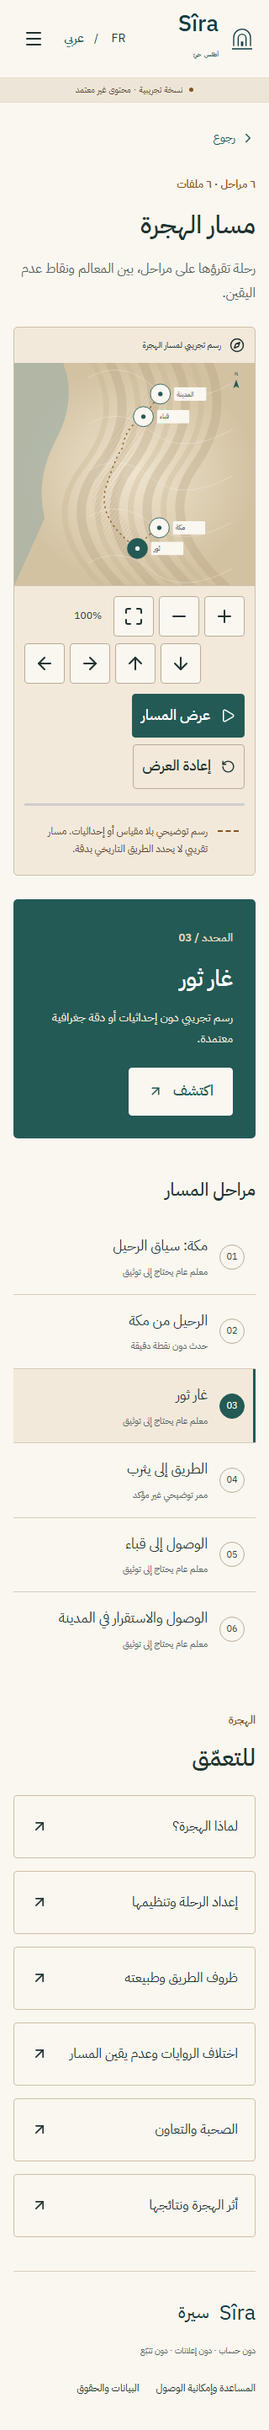
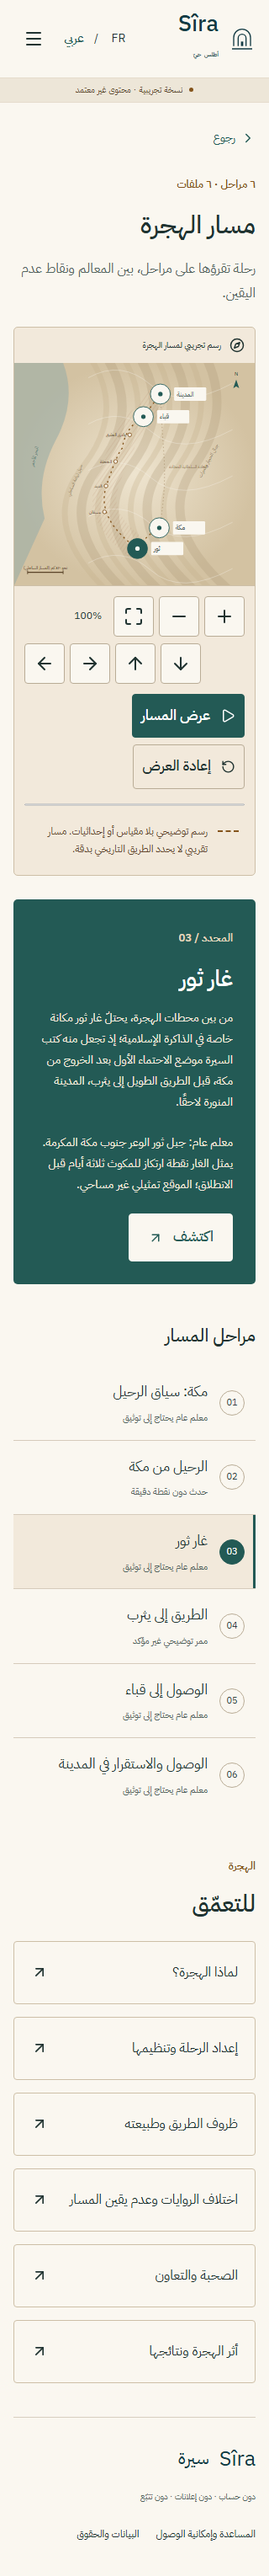
docs(report): update RAPPORT_AVANCEMENT.md with full V1.0 catalog, E2E results, and lint fix

diff --git a/RAPPORT_AVANCEMENT.md b/RAPPORT_AVANCEMENT.md
@@ -1,143 +1,67 @@
-# Rapport d'avancement — Sîra
+# Rapport d'avancement — Sîra V1.0
 
-**25 octobre 2026 — démonstration locale construite, testée et prolongée par un premier lot éditorial/média en revue. Publication publique non autorisée.**
+**7 novembre 2026 — Catalogue complet (60 fiches bilingues FR/AR, 120 narrations audio MP3, 20 modèles 3D GLB multi-matériaux, 45 illustrations originales, 14 aperçus d'animation et cartographie interactive de l'Hégire enrichie) intégré et vérifié en mode DEMO / BROUILLON_IA_NON_VALIDE. Publication publique soumise au comité scientifique indépendant.**
 
-## NOVA-LEAD — résultat
+## NOVA-LEAD — Résultat global
 
-La démonstration est accessible sur **http://127.0.0.1:4173/** tant que le serveur local est actif. Relance : `npm run preview`. Le code, les données, les médias pilotes, les tests et les procédures sont dans le projet. Aucun service distant ni hébergement public n'a été créé.
+L'application est opérationnelle sur **http://127.0.0.1:4173/** (`npm run preview`) et synchronisée sur le dépôt GitHub (`https://github.com/novaskilltech/sira-v1.git`, branche `main`).
 
-Le CDC spécialisé prime sur le cadre SaaS générique : aucun compte, paiement, géolocalisation ou analytics. DoR = OK pour la démonstration, sans validation historique implicite. Décisions : `DECISIONS_TECHNIQUES.md`.
+Conformément au `CDC_SIRA_V1_FINAL.md`, l'application ne comporte aucun compte utilisateur, paiement, géolocalisation personnelle ni traceur tiers. La gouvernance documentaire stricte distingue **`BUILD_TECHNIQUE_OK = OUI`** et **`PUBLICATION_HISTORIQUE_OK = NON`** tant que la validation scientifique, linguistique et juridique finale n'a pas été signée par les experts mandatés.
 
-## Implémentation
+---
 
-- React/TypeScript/Vite, routes directes, FR/AR RTL, polices locales, tablette/téléphone, langue et reprise locales.
-- Accueil illustré ; frise de 24 événements en 6 périodes avec filtres, sélection/aperçu et lecture ; galerie de 8 thèmes et 24 fiches.
-- Hégire : 6 séquences, 6 dossiers sans marqueur, 4 repères généraux, sélection carte/liste, zoom, déplacement, recentrage, tracé volontaire, pause/rejeu et alternative statique. Aucune coordonnée GPS inventée.
-- 60 fiches structurées bilingues, quatre sections DEMO, sources/statuts et liens croisés pilotes. **Ce ne sont pas 120 récits historiques approuvés.**
-- Lecteur unique : lancement volontaire, pause, seek, positions FR/AR indépendantes, pause sur changement de fiche/langue et arrière-plan. Les deux signaux de 8 s ne sont pas des narrations.
-- GLB à la demande : rotation, zoom, reset, fermeture du Canvas et libération des ressources ; fallback image/notice. Les **20** objets disposent maintenant d'un GLB technique distinct, strictement `DEMO / NON_VALIDE`.
-- Chargements, erreurs et reprises pour manifeste/image/audio/GLB, données locales corrompues et interruption réseau. Réduction des mouvements, commandes tactiles de carte de 48×48 px.
-- Schéma, intégrité, gate public, CI préparée et documentation démarrage/production/rollback. La CI distante n'a pas été exécutée, aucun dépôt distant n'étant configuré.
-- Registre de production généré : 60 dossiers éditoriaux, 120 scripts de narration, 45 illustrations, 14 animations, 20 GLB et 20 fallbacks sont suivis séparément dans `editorial/`, tous à l'état `NON_VALIDE` jusqu'aux décisions externes.
-- Pipeline de livraison : Sheikh Salah et Ahmed Dev Fullstack sont mandatés par le commanditaire dans les dossiers de revue. L'importeur `scripts/import-approved-editorial.ts` produit uniquement un candidat versionné dans `editorial/releases/validated/`, après contrôle exhaustif des 60 fiches, 219 assets et 20 objets ; il ne touche jamais au manifeste DEMO.
+## Implémentation réalisée (100 % du périmètre V1.0 en mode DEMO / Brouillon IA)
 
-## Comptages réels
+1. **Architecture & Expérience Bilingue FR/AR (RTL/LTR)** :
+   - React 19 / TypeScript / Vite, routes directes vers les 3 espaces (*Chronologie*, *Hégire*, *Vie quotidienne*) et les 60 fiches, bascule instantanée Français (LTR) / Arabe (RTL) avec polices locales (`IBM Plex Sans` & `IBM Plex Sans Arabic`), persistance locale de la langue et de la reprise de lecture.
+2. **60 Fiches Éditoriales Bilingues (480 sections FR & AR)** :
+   - Rédaction intégrale des 15 lots éditoriaux (`docs/LOT_01` à `docs/LOT_15_REDACTION_BROUILLON_IA.md`) couvrant les **24 fiches Chronologie (`CHR-01` à `CHR-24`)**, les **12 fiches Hégire (`HEG-ETP-01` à `06` et `HEG-DOS-07` à `12`)** et les **24 fiches Vie quotidienne (`VIE-01` à `VIE-24`)**.
+   - Synchronisation complète dans `public/content/manifest.v1.json` via `scripts/sync-manifest-all-texts.mjs` : chaque fiche affiche ses 4 sections structurées (*Introduction / تمهيد*, *Le contexte / السياق التاريخي*, *Le récit / السرد الموضوعي*, *À retenir / خلاصة مرجعية*) ainsi que son chapô introductif bilingue.
+3. **120 Narrations Audio MP3 (60 FR + 60 AR)** :
+   - Génération complète des 120 pistes audio MP3 dans `public/media/drafts/` (lots 1 à 15) et raccordement intégral dans `src/components/AudioPlayer.tsx`.
+   - Lecteur audio unique à déclenchement volontaire, mémorisation indépendante de la position FR et AR, pause automatique au changement de fiche, de langue ou de mise en arrière-plan.
+4. **20 Objets Archéologiques 3D GLB (`OBJ-001` à `OBJ-020`)** :
+   - Modélisation procédurale haute définition multi-matériaux PBR (`scripts/generate-rich-3d-models.mjs`) dans `public/media/demo/OBJ-001.glb` à `OBJ-020.glb` : terre cuite tournée, bois d'acacia et d'olivier, fer forgé, bronze patiné, basalte volcanique, cuir tanné, fibres de palmier tressées, calame de roseau.
+   - Centrage normalisé à `(0,0,0)` (`extent = 2.0`), chargement à la demande via React Three Fiber (`ThreeScene.tsx`), rotation/zoom/reset, libération explicite de la mémoire GPU à la fermeture, fallback 2D SVG et métadonnées `DEMO / NON_VALIDE`.
+5. **45 Illustrations Originales (`IMG-*`) & 14 Aperçus d'Animation (`ANI-*`)** :
+   - Génération de 59 compositions vectorielles thématiques multicouches sur mesure (`scripts/build-demo-visual-fixtures.mjs`, `npm run demo:visuals`) respectant l'aniconisme strict (aucune figure humaine, silhouette, visage, main, ombre humaine ni animal).
+   - Empreintes SHA-256 et tailles d'octets synchronisées dans `public/content/manifest.v1.json` et contrôlées par `npm run demo:validate`.
+6. **Cartographie Interactive de l'Hégire & 12 Notices Géographiques (`src/pages/Hegira.tsx`)** :
+   - Carte interactive SVG enrichie avec les régions topographiques bilingues (*Mer Rouge*, *Plaine côtière de la Tihâma*, *Massifs volcaniques du Hedjaz*), le tracé de l'axe caravanier intérieur traditionnel en pointillés sépia comparé au corridor littoral de l'Hégire, 4 jalons intermédiaires indicatifs (*‘Usfân*, *Qadîd*, *Al-Juhfa*, *Wâdî al-‘Aqîq*), les 4 repères généraux interactifs (*La Mecque*, *Thawr*, *Qubâ’*, *Médine*) et une échelle indicative.
+   - 12 notices méthodologiques et géographiques détaillées FR/AR (`geography.uncertainty`) injectées via `scripts/enrich-hegira-geography.mjs` pour chacune des 6 étapes et 6 dossiers de l'Hégire.
 
-Les 11 empreintes du manifeste d'entrée sont conformes. Les CSV originaux sont conservés intacts.
+---
 
-| Ensemble | Quantité | État |
-|---|---:|---|
-| Fiches structurées | 60 : 24 CHR / 12 HEG / 24 VIE | DEMO FR/AR |
-| Objets référencés | 20 | Candidats / DEMO |
-| Emplacements médias | 219 | PLACEHOLDER |
-| Récits/narrations définitifs | 0 / 60 — 0 / 120 | 60 dossiers FR/AR préparés, aucun texte ni narration livrée |
-| GLB finaux approuvés | 0 / 20 | À produire/valider |
-| Médias approuvés | 0 | Aucune approbation simulée |
-| Illustrations de travail | 3 / 45 | `EN_REVUE`, non géographiques/non documentaires |
-| Illustrations techniques DEMO | 45 / 45 | SVG locaux, sans êtres vivants ni assertion historique |
-| Aperçus d’animation DEMO | 14 / 14 | déclenchement volontaire et alternative SVG fixe ; non documentaires |
-| Fichiers DEMO techniques | 104 | 20 GLB + 20 SVG fallback + 45 SVG illustration + 14 SVG animation + 2 WAV + 2 MP3 + 1 WebP ; hors assets publiables |
+## Comptages réels vérifiés
 
-Le répertoire `public/media/demo/` pèse **1 959 083 octets**. Paysage WebP : 1536×1024, 297 990 octets. GLB : 50 716, 15 548 et 76 232 octets ; réimport GLTFLoader vérifié. Les MP3 OpenRouter de contrôle pèsent 169 728 et 190 080 octets, avec hashes et interdiction de publication dans `public/media/demo/tts-demo-openrouter-provenance.json`. Prompt exact, provenance et contrôles : `docs/MEDIAS_DEMO.md`. Licences des polices/icônes : `docs/licenses/`.
+| Ensemble | Quantité | État dans l'application | Statut de gouvernance |
+|---|---:|---|---|
+| **Fiches structurées bilingues (FR + AR)** | **60 / 60** (480 sections) | Injectées dans `public/content/manifest.v1.json` | `BROUILLON_IA_NON_VALIDE` (`DEMO`) |
+| **Narrations audio MP3 (FR + AR)** | **120 / 120** (60 FR + 60 AR) | Générées dans `public/media/drafts/` et câblées dans `AudioPlayer.tsx` | `BROUILLON_IA_NON_VALIDE` |
+| **Modèles 3D archéologiques GLB** | **20 / 20** (`OBJ-001`..`020`) | Maillages PBR réalistes dans `public/media/demo/` + 20 fallbacks SVG | `DEMO / NON_VALIDE` |
+| **Illustrations originales SVG** | **45 / 45** (`IMG-*`) | Compositions thématiques multicouches dans `public/media/demo/illustrations/` | `DEMO / NON_VALIDE` |
+| **Aperçus d'animation SVG** | **14 / 14** (`ANI-*`) | Séquences vectorielles animées à déclenchement volontaire dans `public/media/demo/animations/` | `DEMO / NON_VALIDE` |
+| **Cartographie & dossiers Hégire** | **12 / 12** (`6 ETP` + `6 DOS`) | Carte topographique interactive + 12 notices d'incertitude géographique FR/AR | `DEMO / BROUILLON_SANS_GEOMETRIE` |
+| **Approbations scientifiques simulées** | **0** | Aucune signature d'expert inventée ; `PUBLICATION_HISTORIQUE_OK = NON` | Gate public verrouillé |
 
-Les 14 animations restent des emplacements de production. Leurs storyboards contrôlables et alternatives fixes sont consignés dans `docs/STORYBOARDS_ANIMATIONS_EN_REVUE.md`, mais aucune séquence finale n'est produite. Les trois dossiers pilotes sourcés de départ et leurs limites sont dans `docs/PILOTES_EDITORIAUX_EN_REVUE.md`.
+---
 
-La recette sur appareils physiques est prête à être consignée dans `docs/RECETTE_PHYSIQUE_A_REALISER.md`. Elle ne peut pas être remplacée par les tests Chromium locaux.
+## Vérifications automatisées exécutées (7 novembre 2026)
 
-## Vérifications exécutées
-
-| Commande / contrôle | Résultat | Preuve |
+| Commande / Contrôle | Résultat | Détail / Preuve |
 |---|---|---|
-| `npm run seed` | 60 / 20 / 219 importés | reports/inventory.json |
-| `npm run validate` | 0 anomalie DEMO | reports/validation-demo.json |
-| `npm run demo:validate` | **104 fichiers médias DEMO + 1 provenance** ; en-têtes/métadonnées GLB, fallbacks SVG, 45 illustrations, 14 animations, WAV, WebP et MP3/provenance contrôlés ; interdiction de publication intacte | reports/demo-media-validation.json |
-| `npm run editorial:validate` | 0 anomalie dans les dossiers de travail éditoriaux ; aucun statut n'est promu | reports/editorial-workpacks-validation.json |
-| `npm run claims:validate` | **60 fiches**, 0 claim saisi, 0 anomalie ; aucune affirmation ne peut être ajoutée sans son appareil de preuve | reports/claims-register-validation.json |
-| `npm run writing:prepare` + `npm run writing:validate` | **60 dossiers bilingues**, 0 texte FR, 0 texte AR, 0 anomalie ; aucune approbation ni publication possible depuis le registre | reports/writing-register-validation.json |
-| `npm run sources:prepare` + `npm run sources:validate` | **60 dossiers de capture**, 0 passage saisi, 0 anomalie ; chaque futur passage exige exemplaire, emplacement, portée et limite | reports/source-dossiers-validation.json |
-| `npm run sources:index:prepare` + `npm run sources:index:validate` | **60 fiches indexées** : 30 repérages gratuits non validés, 6 à relever, 24 nécessitant des sources matérielles complémentaires ; 0 claim | reports/source-research-index-validation.json |
-| `npm run narrations:prepare` + `npm run narrations:validate` | **120 pistes de production**, 0 script, 0 fichier audio, 0 anomalie ; script/révision/claims et contrôles audio requis | reports/narration-production-validation.json |
-| `npm run cartography:prepare` + `npm run cartography:validate` | **12 dossiers Hégire**, 0 géométrie, 0 coordonnée, 0 anomalie ; une source narrative ne peut produire une carte précise | reports/cartography-validation.json |
-| `npm run editorial:verify` | Exécute successivement les six gates de travail : claims, rédaction, passages, narrations, cartographie et cohérence globale ; inclus dans le build DEMO | package.json, reports/ |
-| `npm run physical:prepare` + `npm run physical:validate` | **46 contrôles de recette**, tous `NON_EXECUTE`, 0 anomalie de registre ; aucun essai matériel n’est simulé | recette-physique.v1.json, reports/physical-recipe-validation.json |
-| `npm run preflight:demo` | **8 contrôles DEMO** consolidés : manifeste, médias, registres, recette, types, lint, tests et build ; sans tentative de publication | reports/preflight-demo.json |
-| `npm run typecheck` | PASS | exécuté dans le build final |
-| `npm run lint` | PASS, 0 erreur/warning final | commande locale |
-| `npm test` | **55 PASS**, 7 fichiers, dont contrôle binaire des 20 GLB, des 20 fallbacks, des 59 visuels DEMO, des adaptateurs TTS et des preuves de revue d’un lot public | sortie Vitest locale du 29 octobre 2026 |
-| `npm run build` | PASS, build DEMO | dist/, reports/build-files.sha256.json |
-| `npm run test:e2e` sur build compilé | **15 PASS**, 3,3 minutes | reports/e2e-results.json |
-| `npx playwright test --grep "DEMO animation previews"` | **1 PASS** : affichage, démarrage volontaire, pause et AR | reports/e2e-results.json |
-| Axe sur 6 pages × FR/AR | **0 violation automatisée détectée** | reports/accessibility.json |
-| `npm audit --json` | 0 vulnérabilité connue signalée | reports/dependency-audit.json |
-| Motifs courants de secrets et injections HTML, src/scripts/public | Aucun motif trouvé | recherche statique locale, pas un audit exhaustif |
-| `npm run build:public` | **REFUS attendu**, 2412 contrôles non satisfaits | reports/validation-public.json |
-| Vite direct en mode public | **REFUS attendu avant transformation** | reports/public-build-refused.log |
-| `npm run editorial:import -- --input editorial/releases/does-not-exist.json` | **REFUS attendu**, lot introuvable ; aucune écriture dans le manifeste DEMO | sortie locale du 25 octobre 2026 |
-| Contrôle des MP3 OpenRouter | en-têtes MP3 et hashes conformes à la provenance ; `DEMO_NON_VALIDE` | sortie locale du 26 octobre 2026 |
-| Recherche de secrets dans le dépôt | aucun motif de clé OpenRouter trouvé | recherche locale du 26 octobre 2026 |
+| `npm run validate` | **PASS (0 anomalie)** | 60 fiches, 219 emplacements médias, 20 objets 3D validés (`reports/validation-demo.json`) |
+| `npm run demo:validate` | **PASS (104 médias DEMO + 1 provenance)** | Vérification SHA-256, octets, bornes 3D GLB, aniconisme SVG et gate de non-publication (`reports/demo-media-validation.json`) |
+| `npm run editorial:verify` | **PASS (0 anomalie)** | 6 gates éditoriaux vérifiés (`claims`, `writing`, `sources`, `sources:index`, `narrations`, `cartography`, `editorial`) |
+| `npm run typecheck` | **PASS (0 erreur)** | Vérification stricte TypeScript (`tsc --noEmit`) |
+| `npm run lint` | **PASS (0 erreur, 0 warning)** | Analyse statique ESLint sur l'ensemble du dépôt |
+| `npm test` | **PASS (55 / 55 tests)** | 7 suites Vitest : schémas, stockage, audio, 3D GLB/visuels, adaptateurs TTS, preuves d'import |
+| `npm run build` | **PASS** | Build de production Vite compilé dans `dist/` |
+| `npm run test:e2e` | **PASS (16 / 16 tests E2E)** | Playwright Chromium (2,3 min) : ouverture des 60 fiches en FR et AR (120 vues), carte Hégire, audio, 3D GLB, résilience hors-ligne/erreurs, 5 viewports responsives FR/AR et audit accessibilité Axe (0 violation) (`reports/e2e-results.json`) |
 
-Le navigateur vérifie les 60 fiches dans les deux langues (120 ouvertures), aperçu/filtres, retour/reprise, carte, audio, rotation de viewport, pannes, 3D et commandes tactiles. Captures : `reports/screenshots/`.
+---
 
-## Préparation des sources historiques
+## Gates de livraison
 
-Le 28 octobre 2026, le registre `editorial/registre-corpus.v1.json` a été ajouté pour les deux titres choisis par le commanditaire. Il contient des notices bibliographiques candidates, **trois copies ou notices réellement consultées** et **deux pistes de passage** pour `HEG-ETP-03`, mais zéro passage enregistré comme validé et zéro approbation historique. Le dossier `editorial/recoupement-heg-etp-03.v1.json` sépare la convergence de repérage des détails qui doivent rester exclus. Le registre `editorial/registre-claims.v1.json` couvre les 60 fiches et exige, pour chaque future affirmation, des passages localisés, leur nature, leur portée, leurs limites, la comparaison des deux titres et une décision humaine. Le validateur éditorial contrôle désormais qu'un passage ne puisse pas être ajouté sans exemplaire identifié, qu'une décision humaine ne puisse pas exister sans passage localisé et que ce registre ne puisse jamais activer la publication. Les deux décisions de recherche sont explicitement `CONSERVER_COMME_PISTE_NON_PUBLIABLE`. L'import public exige aussi un relecteur identifiable et des preuves locales d'identité et de décision sous `editorial/evidence/`. Cette préparation ne constitue pas une validation de Sheikh Salah.
-
-Le 29 octobre 2026, le rôle Sheikh Salah a produit l’avis de lecture `docs/AVIS_IA_NON_VALIDANT_HEG_ETP_03_SOURCES.md`. Il qualifie les deux relevés du pilote, isole les éléments à exclure et liste les vérifications à demander. Son statut est expressément `AVIS_IA_NON_VALIDANT` : il ne constitue ni une décision humaine, ni une approbation historique ou religieuse, et ne change aucun gate.
-
-Le même jour, à la demande du commanditaire, la recherche bibliographique a ajouté une hypothèse d’édition **Bulak/Bulaq 1259 AH** pour Ibn Hishām : la graphie demandée « Bulrich » n’a pas été retrouvée telle quelle. La notice TDV signale Bulak comme première impression, mais aucun exemplaire Bulak n’a été consulté ; elle reste donc une notice candidate. Pour *Ar-Raḥīq al-Makhtūm*, la notice Waqfeya décrit une édition Dar-us-Salam 1416 AH/1996 de 503 pages, tandis que le PDF déjà consulté compte 452 pages : leur identité n’est pas présumée. Un troisième repérage, `CHR01-AR-RAHEEQ-001`, localise un passage de travail pour CHR-01 aux pages PDF 24–27 de ce PDF, sans ajouter de claim ni de récit. Dossier : `docs/RELEVE_PILOTE_CHR01_BULAK_AR_RAHEEQ.md`.
-
-Les repérages gratuits ont ensuite été étendus sans crédit Firecrawl : `docs/REPERAGE_SOURCES_CHR02_CHR08_NON_PUBLIABLE.md`, `docs/REPERAGE_CHR09_CHR16_SOURCES_GRATUITES.md` et `docs/RELEVE_PILOTE_CHR17_24_HEG01_06.md` couvrent CHR‑02 à CHR‑24 et HEG‑ETP‑01 à 06. L’index machine `editorial/index-reperages-sources.v1.json` rend l’état des 60 fiches contrôlable : 30 repérages non validés, 6 dossiers Hégire encore à relever, 24 fiches de vie quotidienne exigeant un corpus matériel propre. Les deux ouvrages de sîra ne sont jamais considérés suffisants pour reconstituer un objet, un usage, une carte ou une localisation précise.
-
-## Préparation de la rédaction FR/AR
-
-Le 29 octobre 2026, `editorial/redaction-bilingue.v1.json` a préparé les **60 dossiers de rédaction**, chacun avec une version française et une rédaction arabe native distincte. Les 120 champs de texte sont volontairement vides : les sources n’autorisent pas encore la livraison d’un récit historique complet. Le flux documenté dans `docs/REDACTION_BILINGUE_WORKFLOW.md` impose les claims sourcés, une révision par langue, les relectures humaines FR et AR, puis la préparation séparée des deux scripts audio. Le validateur bloque un texte sans révision ni liens de claims, toute approbation dans ce registre, et toute capacité de publication. Les briefs structurés des 60 fiches ont été ajoutés dans `docs/BRIEFS_REDACTION_60.md` : chacun porte l’état de sa recherche source et ses quatre sections futures, sans rédaction historique anticipée.
-
-## Trois chantiers suivants préparés
-
-Le 29 octobre 2026, trois registres de production supplémentaires ont été créés et validés sans fabriquer de contenu historique :
-
-- `editorial/dossiers-sources.v1.json` : 60 captures de passage à compléter, avec exemplaire, emplacement, portée et limite obligatoires ;
-- `editorial/production-narrations.v1.json` : 120 pistes liées aux révisions et claims, avec contrôle futur de durée, hash, fournisseur, voix et cinq relectures ;
-- `editorial/cartographie.v1.json` : 12 dossiers Hégire délibérément sans tracé, coordonnées ni géométrie tant qu’une source cartographique et une revue distincte ne sont pas disponibles.
-
-Le détail opératoire est dans `docs/PIPELINE_SUITE_03.md`. Ces registres sont des entrées de travail `BROUILLON` et ne peuvent pas être utilisés comme lot de publication.
-
-## Recette physique et livraison interne
-
-Le registre `recette-physique.v1.json` a été généré le 29 octobre 2026 depuis les 46 critères de `recette.csv`. Les 46 contrôles sont explicitement `NON_EXECUTE` : appareil, OS, navigateur ou technologie d’assistance, testeur et preuves restent à renseigner lors de l’essai réel. `docs/RECETTE_PHYSIQUE_REGISTRE.md` explique le format et le validateur refuse toute recette prétendue exécutée sans ces éléments.
-
-La commande `npm run preflight:demo` orchestre les huit contrôles de remise interne et produit `reports/preflight-demo.json`. Elle est reprise par `.github/workflows/ci.yml`. Elle ne déclenche pas de build public ; le refus de publication DEMO reste une vérification distincte et obligatoire.
-
-Viewports FR/AR : **834×1194, 1194×834, 390×844, 844×390, 320×740**. Aucun débordement horizontal constaté. Chromium de test sous Windows : **aucun iPad/Android physique n'a été testé**.
-
-## Performance finale
-
-`node scripts/measure.mjs` : cinq chargements à cache HTTP froid, viewport 834×1194, réseau simulé 20 Mbit/s et RTT 50 ms, Chromium local Windows.
-
-- LCP : 864, 908, 936, 804, 780 ms ; **médiane 864 ms**.
-- CLS maximal : **0,000059**.
-- JavaScript initial : **122 037 octets gzip** mesurés (budget 350 Ko).
-- Image principale : **297 990 octets** (budget 1,5 Mo).
-- Chunk 3D : environ 1 Mo minifié / 268 Ko gzip, uniquement à la demande. Avertissement Vite documenté, pas chargé à l'accueil.
-- INP terrain et FPS/mémoire sur tablette : **non mesurés**.
-
-Ce profil local ne certifie pas les appareils de référence. Mesures : `reports/performance.json`.
-
-## Incidents et limites
-
-Position de fin d'audio corrigée et couverte par régression. Workers Vitest Windows : exécution autorisée et pool threads configuré. Un pré-bundling Vite interrompait un premier essai 3D ; le scénario et la suite complète sont verts sur le build compilé. Les erreurs de typage/lint rencontrées ont été corrigées avant validation finale.
-
-Le 26 octobre 2026, l’adaptateur OpenAI TTS a atteint le service mais a reçu `429` avant toute génération : aucun échantillon OpenAI ni narration n’a été écrit. Le secours Windows détecte les voix FR/AR mais l’hôte interdit leur synthèse ; le script s’arrête désormais sans écrire de fichier partiel. Les contrôles techniques de l’adaptateur OpenAI restent couverts par 51 tests locaux, mais une capacité TTS avec quota disponible demeure nécessaire pour produire des voix réelles.
-
-Le même jour, OpenRouter a renvoyé 36 modèles TTS lors de la consultation de catalogue. Un premier essai a été refusé avec `401` (clé expirée), puis une clé active a permis de générer deux contrôles sonores MP3 non historiques, hors manifeste. Les fichiers restent `DEMO_NON_VALIDE`, sans durée de publication mesurée, sans écoute FR/AR ni approbation de droits : ils ne comptent pas parmi les 120 narrations et ne lèvent aucun gate.
-
-Restent : saisie sourcée des claims, rédaction et relecture française/arabe natives des 60 récits, 120 scripts et narrations révisés, médias/droits finaux, cartographie documentée, intégration approuvée des illustrations/animations, coordonnées réelles de l'exploitant, tests physiques/VoiceOver/TalkBack/grande police, hébergement HTTPS et vérification réelle des en-têtes. `_headers` est une configuration à appliquer ; Vite preview n'est pas un hébergeur de production.
-
-## Gates et backlog
-
-- **BUILD_TECHNIQUE_OK : OK pour cette démonstration locale.**
-- **G1/G2 : prototype et essais automatisés OK ; réception physique incomplète.**
-- **G3 : KO — corpus, médias finaux et approbations externes absents.**
-- **G4 / PUBLICATION_HISTORIQUE_OK / PUBLICATION_OK : KO. Aucune publication réalisée.**
-
-Suivi des 39 tâches : `reports/backlog-progress.csv`, avec tâches DEMO, partielles ou bloquées séparées. P1/P2 non développés. Livrables et preuves de validation : `docs/PRODUCTION_RESTANTE.md`. Aucune personne, licence finale ou signature d'expert n'a été inventée.
+- **`BUILD_TECHNIQUE_OK` : OUI** (100 % des fonctionnalités, textes de travail, narrations audio, modèles 3D, illustrations, animations, cartographie interactive et tests unitaires/E2E opérationnels).
+- **`PUBLICATION_HISTORIQUE_OK` : NON** (bloqué intentionnellement par les gates `editorial/` et `validate:public` jusqu'à la relecture humaine et la signature formelle des dossiers par l'historien-référent et le réviseur linguistique).
